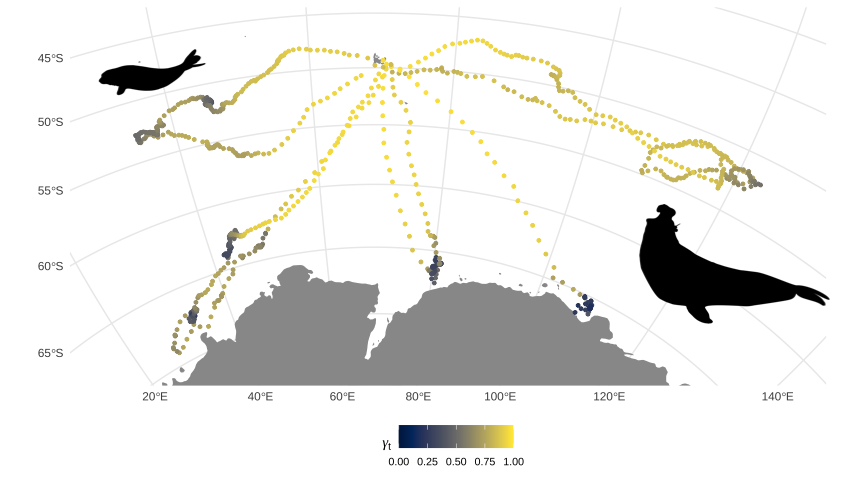
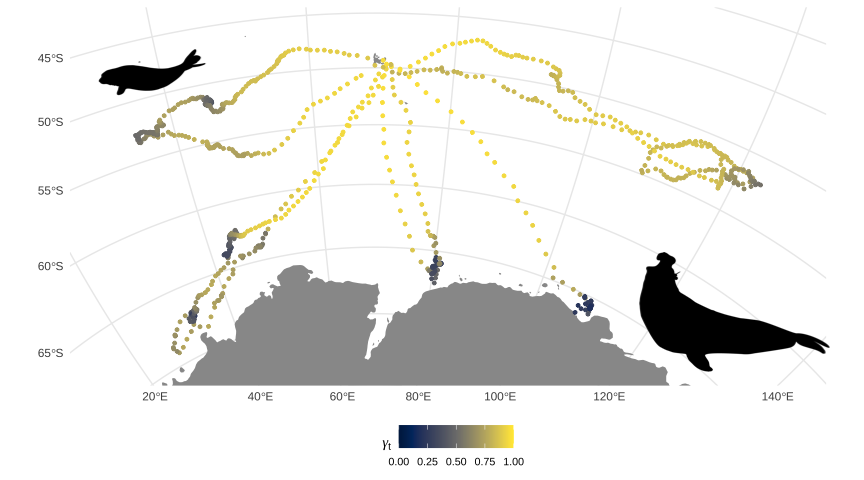
tweak male sese position

Changed region(s): [[0.7188, 0.4062, 0.9688, 0.7812]]

diff --git a/README.md b/README.md
@@ -118,8 +118,7 @@ ggdraw() +
   draw_image("inst/logo/img/sese_male_orig.png",  x=0.85, y=0.45, scale=0.25, hjust=0.5, vjust=0.5)
 ```
 
-<img src="man/figures/README-explots2-1.png" width="100%" />
-
+<img src="man/figures/README-explots2-1.png" width="100%" /> foo
 Southern elephant seal silhouettes kindly provided by:  
 - female southern elephant seal, Sophia Volzke
 (\[@SophiaVolzke\](<https://twitter.com/SophiaVolzke>), University of
